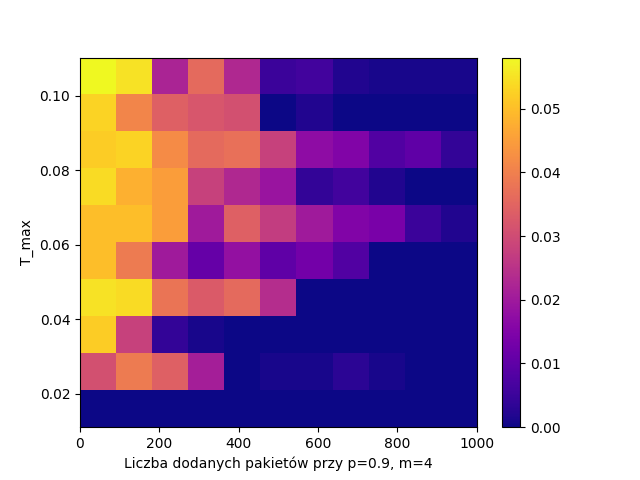
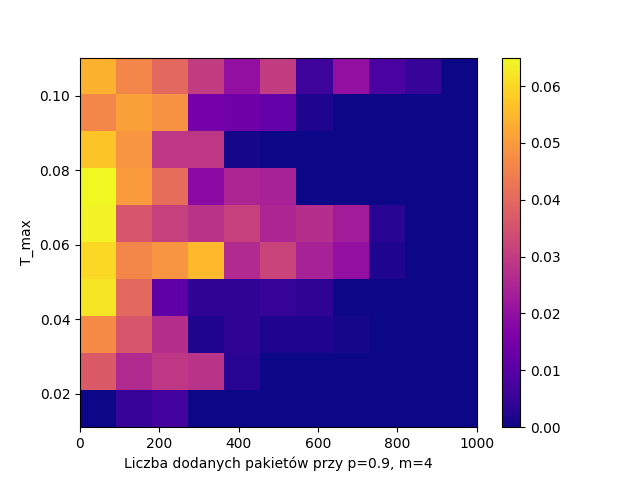
update

diff --git a/l2/network.py b/l2/network.py
@@ -1,5 +1,6 @@
 import networkx as nx
 import matplotlib.pyplot as plt
+import matplotlib as mpl
 import numpy as np
 import random
 from pick import pick
@@ -30,8 +31,7 @@ def capacity(graph):
     """
     nx.set_edge_attributes(graph, 0, "capacity")
     for i, j in graph.edges:
-        graph[i][j]["capacity"] = graph[i][j]["flow"] * 8
-
+        graph[i][j]["capacity"] = graph[i][j]["flow"]  // 5 * 50 + 50
 
 def T(graph, matrix_sum, m):
     """Calculates avg. latency of a packet in a given Network
@@ -202,17 +202,68 @@ def gen_intensity_matrix():
     return N
 
 def t1(G, N):
-    suma = sum(sum(row) for row in N)
-    m = 1
-    p = 0.99
-    Tmax = T(G, suma, m)
-    print(experiment1(G, N, Tmax, p, m)) 
+    suma = sum(sum(r) for r in N)
+    min_Tmax = [T(G, suma, m) for m in range(1, 11)]
+    for m in range(4, 0, -2):
+        startT = min_Tmax[m - 1]
+        for p in [0.9, 0.95, 0.99]:
+            plt.figure()
+            plt.imshow(
+                [
+                    experiment1(G, N, Tmax, p, m, step=100)
+                    for Tmax in np.linspace(startT, 10 * startT, num=10)
+                ],
+                extent=[0, 1000, startT, 10 * startT],
+                aspect="auto",
+                origin="lower",
+                cmap=mpl.colormaps["plasma"]
+            )
+            plt.colorbar()
+            plt.ylabel("T_max")
+            plt.xlabel("Liczba dodanych pakietów przy p={}, m={}".format(p, m))
+            plt.savefig("TEST1_{}_{}.png".format(m, p))
+            plt.close()
 
 def t2(G, N):
-    return 0
+    suma = sum(sum(r) for r in N)
+    min_Tmax = [T(G, suma, m) for m in range(1, 11)]
+    for m in range(4, 0, -2):
+        startT = min_Tmax[m - 1]
+        for p in [0.9, 0.95, 0.99]:
+            plt.figure()
+            plt.imshow(
+                [experiment2(G, N, Tmax, p, m) for Tmax in np.linspace(startT, 10 * startT, num=10)],
+                extent=[0, 10, startT, 10 * startT],
+                aspect="auto",
+                origin="lower",
+                cmap=mpl.colormaps["plasma"]
+            )
+            plt.colorbar()
+            plt.ylabel("T_max")
+            plt.xlabel("Wzrost przepustowości każdego łącza w b/s p={}, m={}".format(p, m))
+            plt.savefig("TEST2_{}_{}.png".format(m, p))
+            plt.close()
 
 def t3(G, N):
-    return 0
+    suma = sum(sum(r) for r in N)
+    min_Tmax = [T(G, suma, m) for m in range(1, 11)]
+
+    for m in range(4, 0, -1):
+        startT = min_Tmax[m - 1]
+        for p in np.linspace(0.9, 0.99, num=10):
+            plt.figure()
+            plt.imshow(
+                [experiment3(G, N, Tmax, p, m) for Tmax in np.linspace(startT, 10 * startT, num=10)],
+                extent=[0, 10, startT, 10 * startT],
+                aspect="auto",
+                origin="lower",
+                            cmap=mpl.colormaps["plasma"]
+            )
+            plt.colorbar()
+            plt.ylabel("T_max")
+            plt.xlabel("Liczba dodanych krawędzi przy p={}, m={}".format(p, m))
+            plt.savefig("TEST3_{}_{}.png".format(m, p))
+            plt.close()
 
 def see_graph(G):
     """Generates a visual repesentation of the network
